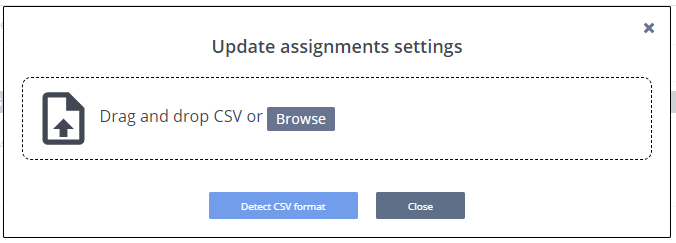
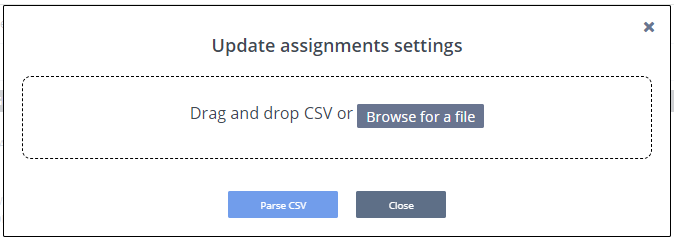
Updatebulksettings (#281)

diff --git a/source/instructors/setupcourses/batch-assignment-update.rst b/source/instructors/setupcourses/batch-assignment-update.rst
@@ -15,39 +15,30 @@ To batch update the assignments settings, follow these steps:
 
 2. Go to **Bulk Settings** area and press **Open Updater** button from Update Assignment Setting
 
-3. Select the CSV file in which you have defined all the required settings and press **Detect CSV format** button
+3. Select the CSV file in which you have defined all the required settings and press **Parse CSV** button
 
    .. image:: /img/select-csv-batch-update.png
       :alt: Select csv Batch Update
 
 
-   Below is an example of a csv file:
+   You can download the csv template file of your course from **Download Assignment Information** setting present in the **Bulk Settings** area. You can update the fields as per your requirement and use that csv file to update the assignment settings.
 
-   .. csv-table:: 
-      :file: /instructors/setupcourses/Batch-Update-Settings.csv
-      :widths: 10, 10, 10, 10, 10, 10
-      :header-rows: 1
+   Things you should know about the csv template:
 
- 
-   - If the specific field is empty then the respective setting will not be updated  
-   - The field values are case-insensitive so complete and COMPLETE are same
-   - Header names in the above csv (name, start_time, prime_time, etc) don't have to be same, you can use any names you want for the header field, and when you press 'Detect CSV format' you can check and map the fields to whatever you want to update
-   - Instead of Assignment Name you can also use Assignment ID or LTI Integration URL of the assignment for the assignment identification (sometimes you may have multiple assignments with the same name so you can use these other unique identifiers to avoid any conflicts)
+   - Header names must be same as row 1 of above CSV
+   - If the specific field is empty then the respective setting will not be updated     
+   - All field are case-insensitive so complete and COMPLETE are same
+   - Date format is mm/dd/yyyy
+   - In the column 'assignment', instead of Assignment Name you can also use Assignment ID or LTI Integration URL of the assignment for the assignment identification (sometimes you may have multiple assignments with the same name so you can use these other unique identifiers to avoid any conflicts)
 
       - Check out :ref:`Get the Course and Assignment ID <get-course-assignment-id>` to see how you can get the assignment ID.
       - Check out :ref:`LTI Integration Assignment URLs <lti-integration-assignment-urls>` to see how you can get LTI Integration URL of the assignment or you can export the LTI Integration URLs of all assignments in the course, see :ref:`Export LTI Settings <export-lti>`
    - You can define one of these 3 possible actions when the assignment closes - Complete, Disable, Complete_and_Disable
    - If :ref:`Prime Setting <prime-assignment-containers>` is not enabled for the assignment but the prime_time is defined in the CSV then the Prime setting will be enabled automatically
 
-4. Our system will automatically detect the CSV fields as required setting fields, you can confirm them and change them if you need from CSV Configuration section as shown in the below image
-
-   .. image:: /img/assignment-batch-update-setting.png
-      :alt: Assignment Batch Update Setting
 
 
-   Once everything is correct, click **Parse CSV** button
-
-5. You will see the test result in the CSV Test Run section (you may also see the error messages if something is not correct in your CSV file)
+4. You will see the test result in the CSV Test Run section (you may also see the error messages if something is not correct in your CSV file)
 
 
    .. image:: /img/batch-csv-test-run.png

diff --git a/source/common/develop/ide/boxes/access.rst b/source/common/develop/ide/boxes/access.rst
@@ -6,6 +6,9 @@
 Access Codio Box via SSH
 ========================
 
+.. Warning:: Please note that Access Codio Boxes via SSH feature will be disabled on or after March 4th 2024. This feature was introduced to support the upload of large files into a Codio project. This capability can now be handled directly in assignments/projects using :ref:`Upload and Download Files<upload-download-files>`.
+
+
 You can SSH into your Codio box from code using SSH public keys. Understanding how Codio uses SSH keys is important to accessing your box via ssh.
 
 
